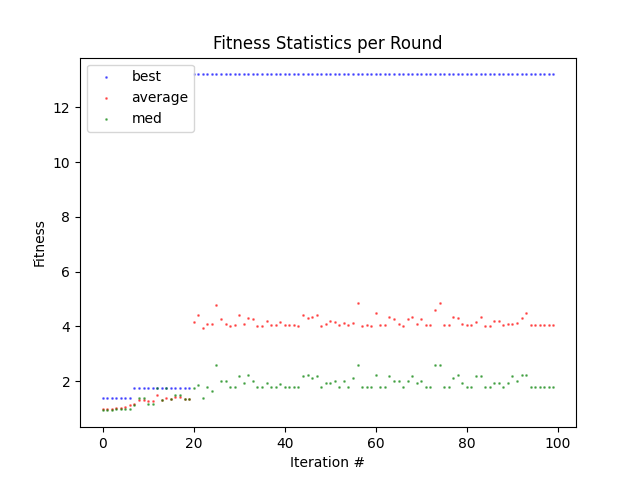
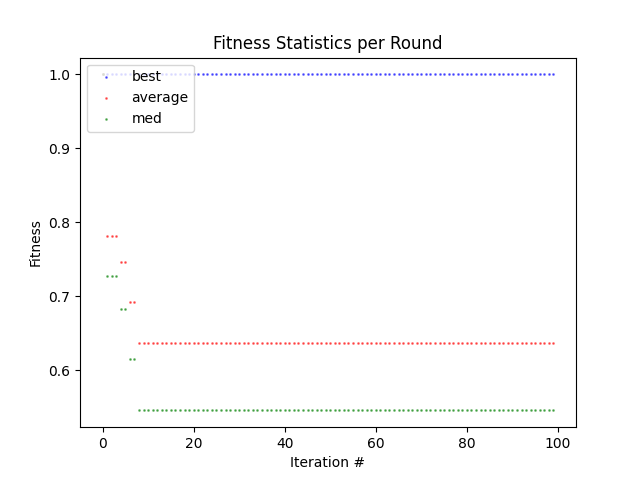
progress

diff --git a/source/genetic_algorithm/zone_evaluator.py b/source/genetic_algorithm/zone_evaluator.py
@@ -8,6 +8,7 @@ from root_logger import RootLogger
 
 import random 
 from typing import List
+#random.seed(10)
 
 class Zone(Coords):
     def __init__(self, lat: float, lon: float, name: str):
@@ -35,6 +36,18 @@ class ZoneEvaluator:
         self.stops_in_zone = [self.determine_stops_in_range(z) for z in self.zones]
         self.current_stop_choices = {}
         self.initial_zone_score = 0
+        self.sample_stops()
+        self.print_choices()
+        
+    def print_choices(self) -> None:
+        result_str = '*\n'
+        for zone in self.zones:
+            result_str += str(zone)
+            result_str += '\t'
+            result_str += str(self.current_stop_choices[self.get_zone_key(zone)])
+            result_str += '\n'
+
+        print(result_str + '*\n')
 
     def get_zone_key(self, zone: Zone) -> int:
         return self.zone_keys[zone]
@@ -44,7 +57,12 @@ class ZoneEvaluator:
         return self.stops_in_zone[zone_key]
     
     def determine_stops_in_range(self, zone: Zone) -> List[Stop]:
-        return [s for s in self.pool_of_stops if s.distance_to_point(zone) < params.ZONE_RADIUS]
+        stops = [s for s in self.pool_of_stops if s.distance_to_point(zone) < params.ZONE_RADIUS]
+        if stops == []:
+            RootLogger.log_error(f'Failed to find stops within range {params.ZONE_RADIUS} of {zone.get_coords()}')
+        else:
+            RootLogger.log_info(f'Found {len(stops)} stops within range {params.ZONE_RADIUS} of {zone.get_coords()}')
+        return stops
     
     def sample_stop_for_zone(self, zone: Zone): 
         stop_options = self.get_zone_stops(zone)
@@ -61,31 +79,36 @@ class ZoneEvaluator:
     
     def trip_distance_to_zone(self, trip: SimpleTrip, stop_index: int, target_zone: Zone) -> int:
         trip_length = len(trip.stops)
-        cur_index = stop_index
-        if cur_index is None:
-            return -1
+        cur_index_inc = stop_index
+        cur_index_dec = stop_index
         target_stops = self.get_zone_stops(target_zone)
+        # Basically a BFS on a list. Find nearest stop in that group by branching out left and right. 
         distance = 0 
-        while cur_index < trip_length:
-            if trip.stops[cur_index] in target_stops: # We have reached the target zone
-                return distance 
+        while cur_index_inc < trip_length or cur_index_dec >= 0:
+            if cur_index_inc < trip_length and trip.stops[cur_index_inc] in target_stops:
+                return distance
             
-            cur_index += 1
+            if cur_index_dec >= 0 and trip.stops[cur_index_dec] in target_stops:
+                return distance
+            
+            cur_index_inc += 1
+            cur_index_dec -= 1
+
+            distance += 1
         
         return float('inf')
 
     def route_distance_to_zone(self, route: SimpleRoute, source_stop: Stop, target_zone: Zone) -> int:
         trip_distances = []
-        if route.trips is None:
-            print('heheheheheheh')
         for trip in route.trips:
             stop_index = trip.get_index_of_stop_id(source_stop.id)
             if stop_index is not None:
                 trip_distances.append(self.trip_distance_to_zone(trip, stop_index, target_zone))
+        
         if trip_distances == []:
-            return float('inf')
-        else:
-            return min(trip_distances)
+            RootLogger.log_error(f'It happened!')
+
+        return min(trip_distances)
 
 
     def evaluate_zone_distance(self, target_network: TransitNetwork, source_zone: Zone, target_zone: Zone) -> float:
@@ -95,12 +118,12 @@ class ZoneEvaluator:
         routes_dist = []
         for route_id in routes_options:
             route = target_network.lookup_route_by_id(route_id)
-            if route is not None:
-                route_dist = self.route_distance_to_zone(route, source_stop, target_zone)
-                routes_dist.append(route_dist)
+            route_dist = self.route_distance_to_zone(route, source_stop, target_zone)
+            routes_dist.append(route_dist)
 
         if routes_dist == [] or min(routes_dist) == float('inf'):
-            RootLogger.log_warning(f'Unable to find route from zone {source_zone}, sending distance of {params.DEFAULT_ZONE_DISTANCE}')
+            RootLogger.log_warning(f'Unable to find route from {source_zone} to {target_zone}, giving distance of {params.DEFAULT_ZONE_DISTANCE}')
+            RootLogger.log_warning(f'None of {source_stop.routes} reach {target_zone}!')
             return params.DEFAULT_ZONE_DISTANCE
         return min(routes_dist)
 
@@ -113,11 +136,20 @@ class ZoneEvaluator:
             dist_1 = self.evaluate_zone_distance(target_network, source_zone, target_zone)
             dist_2 = self.evaluate_zone_distance(target_network, target_zone, source_zone)
             total_zone_distance += ((dist_1 + dist_2) / 2.0)*weight
+            # if dist_1 != params.DEFAULT_ZONE_DISTANCE or dist_2 != params.DEFAULT_ZONE_DISTANCE:
+            #     print(dist_1, dist_2)
 
         return total_zone_distance
     
     def evaluate_network(self, target_network: TransitNetwork):
-        return self.evaluate_total_zone_distance(target_network) / (self.initial_zone_score + params.ZONE_EPSILON)
+        raw_zone_dist = self.evaluate_total_zone_distance(target_network)
+        if raw_zone_dist == 0:
+            RootLogger.log_warning(f'Initial network achieved score of 0, setting to {params.ZONE_EPSILON}.')
+            zone_score = (self.initial_zone_score) / (params.ZONE_EPSILON)
+        else:
+            zone_score = (self.initial_zone_score) / raw_zone_dist
+        # print(zone_score, self.initial_zone_score, raw_zone_dist)
+        return zone_score
                 
 
             

diff --git a/source/transit_network/transit_network.py b/source/transit_network/transit_network.py
@@ -7,7 +7,8 @@ from copy import deepcopy
 from transit_network.routes import SimpleRoute, GTFSRoute, simplify_route
 from transit_network.stops import Stop, map_ids_to_obj
 from transit_network.trips import GTFSTrip, simplify_trip, SimpleTrip
-from transit_network.shapes import ShapePoint, get_shapes_from_df
+from transit_network.shapes import get_shapes_from_df
+from genetic_algorithm.family import Family
 from preprocessing.determine_transfers import new_determine_transfers
 import preprocessing.gtfs_data as GTFS
 
@@ -138,14 +139,13 @@ def create_network_from_GTFSRoutes(routes: List[GTFSRoute], shapes_df: pd.DataFr
         RootLogger.log_info(f'Simplifying trips for route {route.id}')
         new_trips = []
         for trip in route.trips:
-
-
             new_stops = [] 
 
             for stop in trip.stops:
                 stop_id = stop[0].get_id()
                 cur_stop = id_to_obj_map[stop_id]
                 if cur_stop.is_transfer(): 
+                    RootLogger.log_debug(f'Identified transfer stop {cur_stop.id} with {len(cur_stop.routes)} transfers.')
                     new_stops.append(cur_stop)
             
             # We want to add endpoint to the trips
@@ -184,7 +184,7 @@ def create_network_from_GTFSRoutes(routes: List[GTFSRoute], shapes_df: pd.DataFr
 
     return TransitNetwork(simple_routes, id='-1') 
 
-def create_network_from_trips(trips: List[SimpleTrip], id: str):
+def create_network_from_trips(trips: List[SimpleTrip], id: str, family: Family):
     routes_dict = {} # maps route-ids to the trips referencing them
     for trip in trips:
         route_id = trip.route_id
@@ -192,6 +192,15 @@ def create_network_from_trips(trips: List[SimpleTrip], id: str):
             routes_dict[route_id].append(trip)
         else:
             routes_dict[route_id] = [trip]
+
+    # Update transfers for children/parents. 
+    for child in family.children:
+        for stop in child.stops:
+            stop.add_transfer_routes([child.route_id])
+
+    for parent in family.parents:
+        for stop in parent.stops:
+            stop.remove_route(parent.route_id)
     
     new_routes = []
     for route_id in routes_dict:

diff --git a/source/transit_network/stops.py b/source/transit_network/stops.py
@@ -31,6 +31,9 @@ class Stop:
     
     def add_transfer_routes(self, new_routes: List[str]):
         self.routes += [r for r in new_routes if r not in self.routes]
+    
+    def remove_route(self, target_route: str) -> None:
+        self.routes = [r for r in self.routes if r != target_route]
 
     @property
     def location_lat(self):
@@ -78,19 +81,19 @@ class Stop:
                      {self.parent_id} and {second_stop.parent_id}.')
             new_parent = self.parent_id if second_stop.parent_id is None else second_stop.parent_id
         
-        new_routes = self.routes + second_stop.routes 
         new_lat = (self.location_lat + second_stop.location_lat) / 2.0
         new_lon = (self.location_lon + second_stop.location_lon) / 2.0
 
-        return Stop(id= new_id, name=new_name, location=(new_lat, new_lon), parent_id=new_parent, routes=new_routes)
+        # Add routes one at time to avoid duplicates. 
+        NewStop = Stop(id= new_id, name=new_name, location=(new_lat, new_lon), parent_id=new_parent, routes=[])
+        NewStop.add_transfer_routes(self.routes)
+        NewStop.add_transfer_routes(second_stop.routes)
+        return NewStop
 
     def is_transfer(self):
         if len(self.routes) == 0:
-            RootLogger.log_warning(f'Stop {self.id} with parent {self.parent_id} has no routes!')
-        try:
-            num_unique_routes = len(set(self.routes))
-        except TypeError:
-            print(self.routes)
+            RootLogger.log_error(f'Stop {self.id} with parent {self.parent_id} has no routes!')
+        num_unique_routes = len(set(self.routes))
         return num_unique_routes > 1
     
     def get_id(self):

diff --git a/source/genetic_algorithm/breeder.py b/source/genetic_algorithm/breeder.py
@@ -2,20 +2,12 @@ from transit_network.transit_network import TransitNetwork, create_network_from_
 from transit_network.trips import common_transfer_point, SimpleTrip
 from root_logger import RootLogger
 import genetic_algorithm.params as params
+from genetic_algorithm.family import Family
 
 from typing import List, Tuple
 import uuid
 import random 
 from copy import deepcopy
-
-class Family:
-    def __init__(self, child_A: SimpleTrip, child_B: SimpleTrip, parent_A: SimpleTrip, parent_B: SimpleTrip):
-        self.child_A = child_A 
-        self.child_B = child_B
-
-        self.parent_A = parent_A 
-        self.parent_B = parent_B
-        self.parents = [self.parent_A, self.parent_B]
 
 def kill_random_trips(trips: List[SimpleTrip]):
     r_val = random.uniform(0, 1)
@@ -151,8 +143,6 @@ def breed_networks(Net_A: TransitNetwork, Net_B: TransitNetwork,
 
         child_trips = [t for t in net_A_trips if t not in family.parents] + [family.child_A, family.child_B]
 
-        del family
-
         RootLogger.log_debug(f'Done crafting new trips for children networks...')
 
         # Generate 'breeded' ids if none provided. 
@@ -160,7 +150,7 @@ def breed_networks(Net_A: TransitNetwork, Net_B: TransitNetwork,
             new_id = ':'.join([Net_A.id, Net_B.id])
             
         RootLogger.log_debug(f'Successfully breeded networks {Net_A.id} and {Net_B.id}')
-        child_network = create_network_from_trips(child_trips, new_id)
+        child_network = create_network_from_trips(child_trips, new_id, family)
         return child_network
 
 

diff --git a/source/genetic_algorithm/population.py b/source/genetic_algorithm/population.py
@@ -18,7 +18,7 @@ def scale_to_prob_dist(weights: List[float]) -> List[float]:
 class Population:
 
     mutation_rate = 0.1
-    elitist_cutoff = 0.5
+    elitist_cutoff = 0.25
 
     def __init__(self, networks: List[Chromosome], initial_metrics: NetworkMetrics, ZoneEvaluator: ZoneEvaluator, fitness_function, breeding_function):
         self.population = networks
@@ -37,7 +37,7 @@ class Population:
     def evaluate_population(self):
         RootLogger.log_debug('Evaluating population...')
         self.performance_dict = {}
-        self.ZoneEvaluator.sample_stops()
+        #self.ZoneEvaluator.sample_stops()
         for index, member in enumerate(self.population):
             # Assign the member a unique_id equal to index. 
             member.unique_id = index

diff --git a/source/preprocessing/ridership_data.py b/source/preprocessing/ridership_data.py
@@ -58,7 +58,7 @@ class RidershipData(DataBase):
             route_id = row['route_id']
             result = gtfs_routes_df.loc[(gtfs_routes_df['route_id'] == route_id)]
             if result.empty:
-                RootLogger.log_warning(f'Failed to match route with id {route_id}, dropping it.')
+                RootLogger.log_info(f'Failed to match route with id {route_id}, dropping it.')
             else:
                 if len(result.index) > 1:
                     RootLogger.log_warning(f'Matched multiple routes with {route_id}, taking first found.')

diff --git a/source/main.py b/source/main.py
@@ -47,9 +47,9 @@ def examine_best_performer(output_dir: str):
 
 
 if __name__ == '__main__':
-    num_generations = 1000
+    num_generations = 100
     population_size = 100
     initial_network_path_input = './data/new_initial_net.pkl'
     run_from_network(num_generations, population_size, initial_network_path=initial_network_path_input)
-    # examine_best_performer('output/2000i100p')
-    # create_simplified_gtfs_SFMTA('data/new_initial_net')
+    #examine_best_performer('output/1000i500p')
+    #create_simplified_gtfs_SFMTA('data/new_initial_net')

diff --git a/source/genetic_algorithm/family.py b/source/genetic_algorithm/family.py
@@ -1,0 +1,17 @@
+from transit_network.trips import SimpleTrip
+
+class Family:
+    def __init__(self, child_A: SimpleTrip, child_B: SimpleTrip, parent_A: SimpleTrip, parent_B: SimpleTrip):
+        self.child_A = child_A 
+        self.child_B = child_B
+
+        self.parent_A = parent_A 
+        self.parent_B = parent_B
+
+    @property
+    def children(self):
+        return [self.child_A, self.child_B]
+    
+    @property
+    def parents(self):
+        return [self.parent_A, self.parent_B]

diff --git a/source/simplify_gtfs.py b/source/simplify_gtfs.py
@@ -22,7 +22,7 @@ def create_simplified_gtfs_SFMTA(export_file='initial_network') -> str:
     """Full end-to-end generation of the network from ridership and GTFS data. 
 
     Args:
-        export_name (str, optional):  Defaults to 'initial_network'.
+        export_file (str, optional):  Defaults to 'initial_network'.
 
     Returns:
         str: compression metrics report

diff --git a/source/preprocessing/determine_transfers.py b/source/preprocessing/determine_transfers.py
@@ -49,6 +49,7 @@ def new_determine_transfers(routes: List[GTFSRoute]):
     RootLogger.log_info(f'Looking for duplicate stops across routes, starting with {len(all_stops)}')
     unique_stops_map = {}
     for stop in all_stops:
+        # TODO: check if transfer??
         if stop.id not in unique_stops_map:
             unique_stops_map[stop.id] = stop
         else:

diff --git a/source/genetic_algorithm/params.py b/source/genetic_algorithm/params.py
@@ -10,10 +10,10 @@ COVERAGE_LAMBDA = 0.0
 RIDERSHIP_DENSITY_LAMBDA = 0.0
 ZONE_LAMBDA = 0.5
 
-ZONE_RADIUS = 1000
+ZONE_RADIUS = 900
 ZONE_EPSILON = 0.5
-DEFAULT_ZONE_DISTANCE = 20
-
+DEFAULT_ZONE_DISTANCE = 40
+# Can use to draw: https://www.calcmaps.com/map-radius/
 Z1_LAT = 37.780554
 Z1_LON = -122.472288
 Z1_NAME = "Richmond"

diff --git a/source/root_logger.py b/source/root_logger.py
@@ -2,7 +2,7 @@ import logging
 from colorama import Fore, Back, Style
 
 class RootLogger:
-    LEVEL = logging.DEBUG
+    LEVEL = logging.INFO
 
     def log_info(msg):
         logging.info(f'{Fore.BLUE}{msg}{Style.RESET_ALL}')
